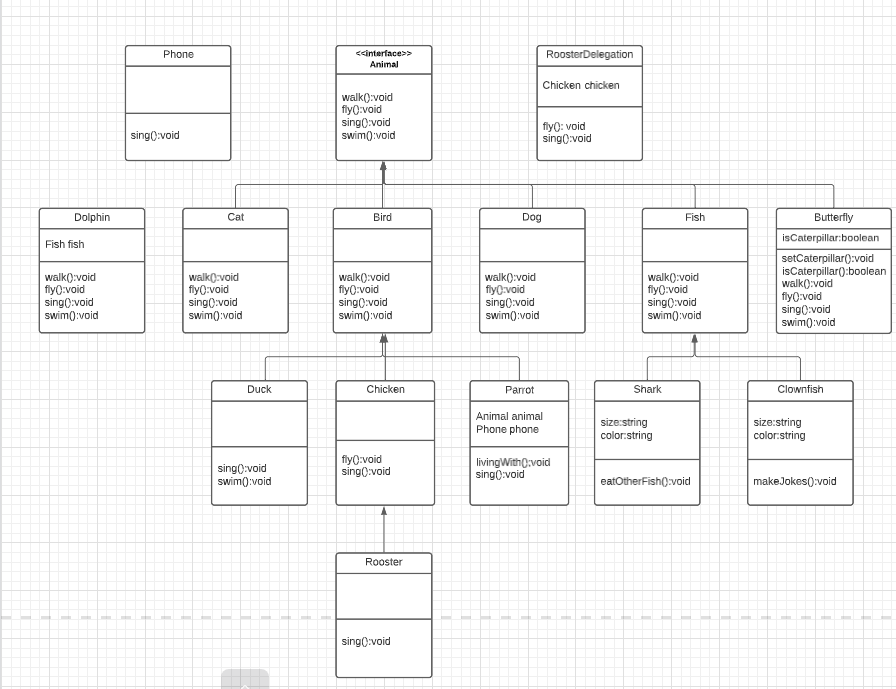
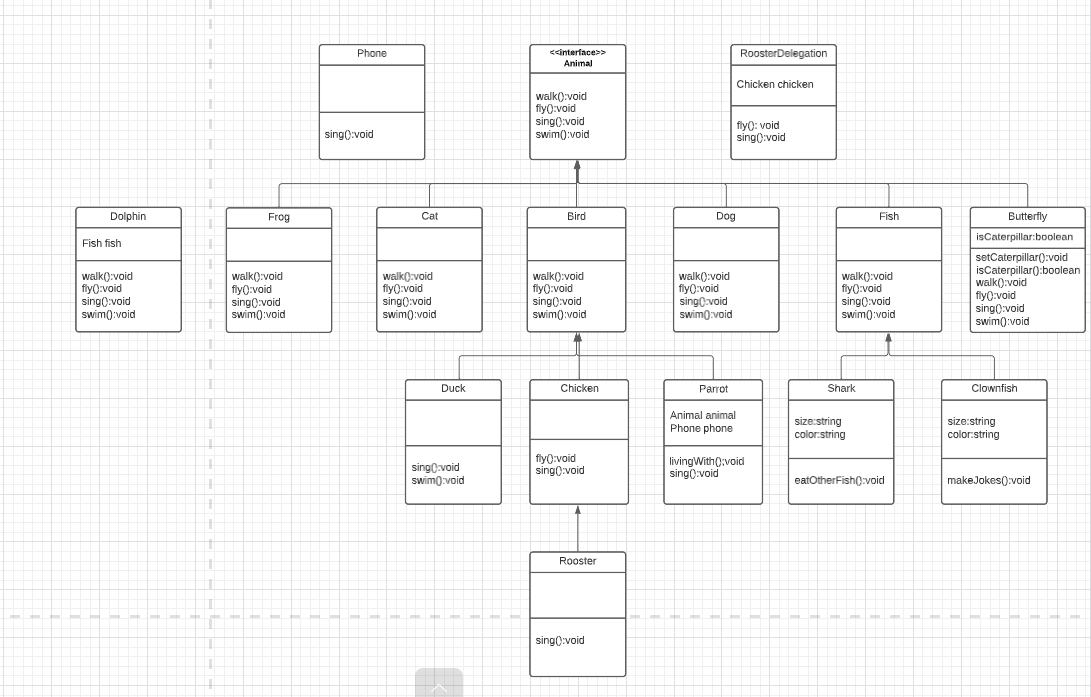
SEVENTH COMMIT: D. Counting animals

diff --git a/SingTelAssignment/src/main/java/com/assignment/Solution.java b/SingTelAssignment/src/main/java/com/assignment/Solution.java
@@ -97,6 +97,46 @@ public class Solution {
 		caterpillar.walk();
 		System.out.print( newLine );
 		
+		Animal[] animals = new Animal[]{
+				new Bird(),
+				new Duck(),
+				new Chicken(),
+				new Rooster(),
+				new Parrot(),
+				new Fish(),
+				new Shark(),
+				new ClownFish(),
+				new Dolphin (),
+				new Frog (),
+				new Dog(),
+				new Butterfly (),
+				new Cat()
+				};
+		
+		   int countFly = 0 ;
+		   int countWalk = 0 ;
+		   int countSing = 0 ;
+		   int countSwim = 0 ;
+		   
+		   for(Animal animal: animals) {
+			   System.out.println(animal.getClass().getName() );
+			   if(animal.fly())
+				   countFly++;
+			    if(animal.walk())
+				   countWalk++;
+			    if(animal.sing())
+				   countSing++;
+			    if(animal.swim())
+				   countSwim++;
+		
+		}
+		   System.out.println("Number of Animals that can fly: " + countFly);
+		   System.out.println("Number of Animals that can walk: " + countWalk);
+		   System.out.println("Number of Animals that can sing: " + countSing);
+		   System.out.println("Number of Animals that can swim: " + countSwim);
+		}
+		   
+		
 	}
 
-}
+

diff --git a/SingTelAssignment/src/main/java/com/assignment/Butterfly.java b/SingTelAssignment/src/main/java/com/assignment/Butterfly.java
@@ -23,35 +23,54 @@ public class Butterfly implements Animal {
 	
 
 	@Override
-	public void walk() {
+	public boolean walk() {
 		if(isCaterpillar)
+		{
 			System.out.println("I can Walk");
+		return true;
+		}
 		else
+		{
 			System.out.println("I cannot Walk");
+		return false;
+		}
 		
 	}
 
 	@Override
-	public void fly() {
+	public boolean fly() {
 		if(isCaterpillar)
+		{
 			System.out.println("I cannot Fly");
+			return false;
+		}
 		else
+		{
 			System.out.println("I can fly");
+			return true;
+		}
 		
 	}
 
 	@Override
-	public void sing() {
+	public boolean sing() {
 		if(isCaterpillar)
+		{
 			System.out.println("I can sing");
+			return true;
+		}
 		else
+		{
 			System.out.println("I cannot sing");
+			return false;
+		}
 		
 	}
 
 	@Override
-	public void swim() {
+	public boolean swim() {
 		System.out.println("I cannot swim");
+		return false;
 		
 	}
 

diff --git a/SingTelAssignment/src/main/java/com/assignment/bird/Bird.java b/SingTelAssignment/src/main/java/com/assignment/bird/Bird.java
@@ -5,27 +5,31 @@ import com.assignment.Animal;
 public class Bird implements Animal{
 
 	@Override
-	public void walk() {
-		System.out.println("I am walking");
+	public boolean walk() {
+		System.out.println("I can Walk");
+		return true;
 		
 	}
 	
 	@Override
-	public void fly() {
-		System.out.println("I am flying");
+	public boolean fly() {
+		System.out.println("I can fly");
+		return true;
 		
 	}
 	
 	@Override
-	public void sing() {
-		System.out.println("I am singing");
+	public boolean sing() {
+		System.out.println("I can sing");
+		return true;
 		
 	}
 
 
 	@Override
-	public void swim() {
-		
+	public boolean swim() {
+		System.out.println("I cannot swim");
+		return false;
 		
 	}
 

diff --git a/SingTelAssignment/src/main/java/com/assignment/Dolphin.java b/SingTelAssignment/src/main/java/com/assignment/Dolphin.java
@@ -20,26 +20,38 @@ public class Dolphin implements Animal {
 	}
 
 	@Override
-	public void walk() {
-		fish.walk();
+	public boolean walk() {
+		if (fish==null)
+			return false;
+		else
+		return fish.walk();
 		
 	}
 
 	@Override
-	public void fly() {
-		fish.fly();
+	public boolean fly() {
+		if (fish==null)
+			return false;
+		else
+		return fish.fly();
 		
 	}
 
 	@Override
-	public void sing() {
-		fish.sing();
+	public boolean sing() {
+		if (fish==null)
+			return false;
+		else
+		return fish.sing();
 		
 	}
 
 	@Override
-	public void swim() {
-		fish.swim();
+	public boolean swim() {
+		if (fish==null)
+			return true;
+		else
+		return fish.swim();
 		
 	}
 

diff --git a/SingTelAssignment/src/main/java/com/assignment/Cat.java b/SingTelAssignment/src/main/java/com/assignment/Cat.java
@@ -3,26 +3,30 @@ package com.assignment;
 public class Cat implements Animal {
 
 	@Override
-	public void walk() {
+	public boolean walk() {
 		System.out.println("I can Walk");
+		return true;
 		
 	}
 
 	@Override
-	public void fly() {
+	public boolean fly() {
 		System.out.println("I cannot fly");
+		return false;
 		
 	}
 
 	@Override
-	public void sing() {
+	public boolean sing() {
 		System.out.println("Me ow");
+		return true;
 		
 	}
 
 	@Override
-	public void swim() {
+	public boolean swim() {
 		System.out.println("I cannot swim");
+		return false;
 		
 	}
 

diff --git a/SingTelAssignment/src/main/java/com/assignment/fish/Fish.java b/SingTelAssignment/src/main/java/com/assignment/fish/Fish.java
@@ -6,26 +6,30 @@ public class Fish implements Animal{
 	
 
 	@Override
-	public void walk() {
+	public boolean walk() {
 		System.out.println("I cannot Walk");
+		return false;
 		
 	}
 
 	@Override
-	public void fly() {
+	public boolean fly() {
 		System.out.println("I cannot Fly");
+		return false;
 		
 	}
 
 	@Override
-	public void sing() {
+	public boolean sing() {
 		System.out.println("I cannot Sing");
+		return false;
 		
 	}
 
 	@Override
-	public void swim() {
+	public boolean swim() {
 		System.out.println("I can Swim");
+		return true;
 		
 	}
 	

diff --git a/SingTelAssignment/src/main/java/com/assignment/Frog.java b/SingTelAssignment/src/main/java/com/assignment/Frog.java
@@ -1,24 +1,27 @@
 package com.assignment;
 
-public class Dog implements Animal{
+public class Frog implements Animal {
 
 	@Override
 	public boolean walk() {
-		System.out.println("I can Walk");
+		System.out.println("I can walk");
 		return true;
+		
 	}
-
+	
 	@Override
 	public boolean fly() {
 		System.out.println("I cannot fly");
 		return false;
 	}
-
+	
 	@Override
 	public boolean sing() {
-		System.out.println("Woof woof");
+		System.out.println("I can sing");
 		return true;
+		
 	}
+
 
 	@Override
 	public boolean swim() {

diff --git a/SingTelAssignment/src/main/java/com/assignment/bird/Duck.java b/SingTelAssignment/src/main/java/com/assignment/bird/Duck.java
@@ -4,14 +4,16 @@ public class Duck extends Bird {
 	
 
 	@Override
-	public void sing() {
+	public boolean sing() {
 		System.out.println("Quack quack");
+		return true;
 		
 	}
 	
 	@Override
-	public void swim() {
-		System.out.println("I am swimming");
+	public boolean swim() {
+		System.out.println("I can swim");
+		return true;
 		
 	}
 

diff --git a/SingTelAssignment/src/main/java/com/assignment/bird/Chicken.java b/SingTelAssignment/src/main/java/com/assignment/bird/Chicken.java
@@ -3,14 +3,16 @@ package com.assignment.bird;
 public class Chicken extends Bird {
 	
 	@Override
-	public void fly() {
+	public boolean fly() {
 		System.out.println("I cannot fly");
+		return false;
 		
 	}
 	
 	@Override
-	public void sing() {
+	public boolean sing() {
 		System.out.println("Cluck cluck");
+		return true;
 		
 	}
 

diff --git a/SingTelAssignment/src/main/java/com/assignment/bird/Parrot.java b/SingTelAssignment/src/main/java/com/assignment/bird/Parrot.java
@@ -29,10 +29,16 @@ public class Parrot extends Bird {
 		this.phone=phone;
 	}
 	
-	public void sing() {
+	public boolean sing() {
 		if(this.animal!=null)
-		   animal.sing();
+		{
+		   return animal.sing();
+		}
+		else if(this.phone!=null)
+		{
+			return phone.sing();
+		}
 		else
-			phone.sing();
+			return true;
 	}
 }

diff --git a/SingTelAssignment/src/main/java/com/assignment/bird/Rooster.java b/SingTelAssignment/src/main/java/com/assignment/bird/Rooster.java
@@ -2,8 +2,9 @@ package com.assignment.bird;
 
 public class Rooster extends Chicken {
 	@Override
-	public void sing() {
+	public boolean sing() {
 		System.out.println("Cock-a-doodle-doo");
+		return true;
 		
 	}
 

diff --git a/SingTelAssignment/src/main/java/com/assignment/Animal.java b/SingTelAssignment/src/main/java/com/assignment/Animal.java
@@ -2,9 +2,9 @@ package com.assignment;
 
 public interface Animal {
 	
-	 void walk();
-	 void fly();
-	 void sing();
-	 void swim();
+	 boolean walk();
+	 boolean fly();
+	 boolean sing();
+	 boolean swim();
 
 }
